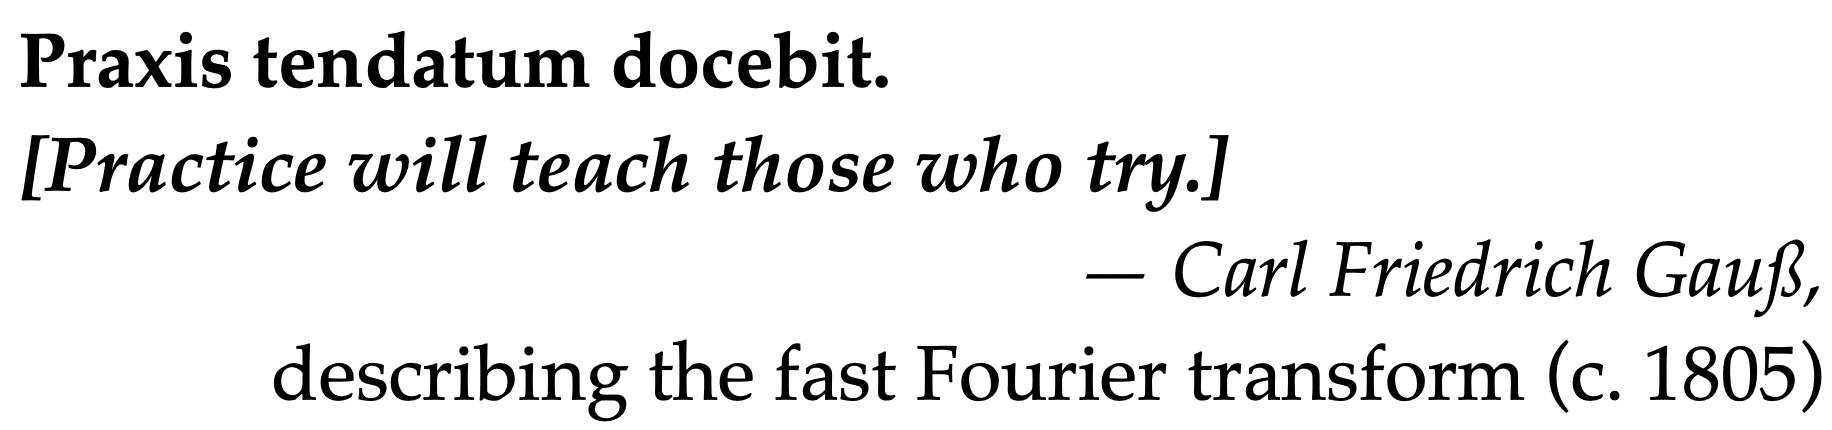
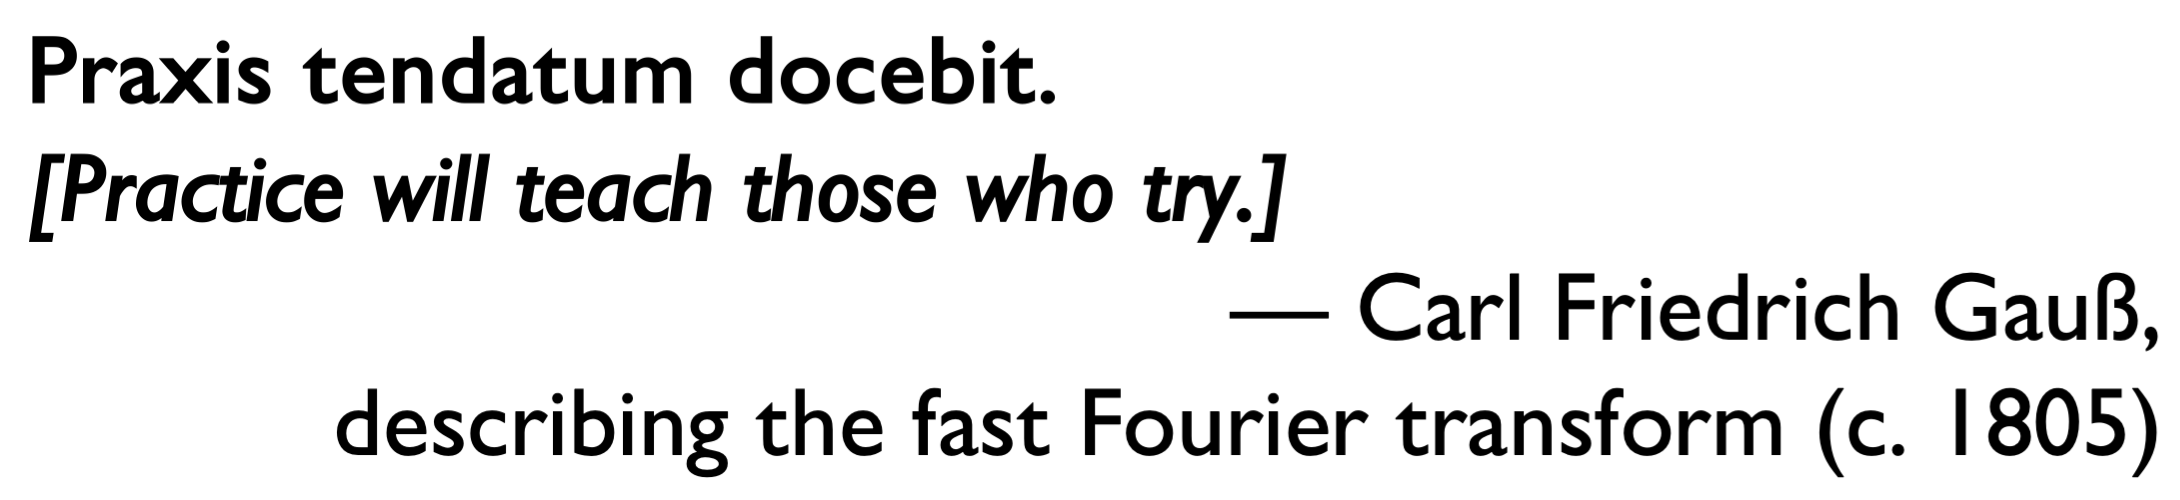
Change page style

diff --git a/index.html b/index.html
@@ -27,34 +27,34 @@
             </td>
             <td align="left"><p><img src="name.png" width="60%"><br />
                 &nbsp <b>Ph.D. Student</b>, CCNT Lab<br />
-                &nbsp <a href="http://ccnt.zju.edu.cn/">AdvanCed Computing aNd SysTem Laboratory</a><br />
-                &nbsp <a href="http://www.cs.zju.edu.cn/english/">College of Computer Science and Technology</a> <br />
-                &nbsp <a href="http://www.zju.edu.cn/english">Zhejiang University</a>, Hangzhou 310027, China<br /><br />
-                &nbsp Supervisor: Prof. <a href="https://person.zju.edu.cn/en/shuiguang">Shuiguang Deng</a> <br />
+                &nbsp <a href="http://ccnt.zju.edu.cn/" target="_blank">AdvanCed Computing aNd SysTem Laboratory</a><br />
+                &nbsp <a href="http://www.cs.zju.edu.cn/" target="_blank">College of Computer Science and Technology</a> <br />
+                &nbsp <a href="http://www.zju.edu.cn/english" target="_blank">Zhejiang University</a>, Hangzhou 310027, China<br /><br />
+                &nbsp Supervisor: Prof. <a href="https://person.zju.edu.cn/en/shuiguang" target="_blank">Shuiguang Deng</a> <br />
                 &nbsp Email: hliangzhao97 {AT} gmail {DOT} com<br />
                 &nbsp Laboratory: Cao Guangbiao Sci-tech Building, Yuquan Campus of Zhejiang University</p>
             </td>
             <td valign="top" width="330">
                 <p align="center"><a href="http://www.zju.edu.cn/english/" target="_blank"><img src="ZJU.png" width="90%" align="top" border="0"></a></p>
-                <p align="center"><a href="http://www.cs.zju.edu.cn/kejizhan/lab/CCNT.html" target="_blank"><img src="lab.jpg" width="95%" height="95%" border="0"></a></p>
-                <p align="center"><img src="quote.png" width="95%" height="95%" border="0"></p>
-                <p align="center"><img src="slogan.png" width="100%" height="100%" border="0"></p>
+                <p align="center"><a href="http://ccnt.zju.edu.cn/" target="_blank"><img src="lab.png" width="95%" height="95%" border="0"></a></p>
+                <p align="center"><img src="quote.png" width="100%" height="100%" border="0"></p>
+                <p align="center"><img src="slogan.png" width="95%" height="95%" border="0"></p>
             </td>
         </tr>
     </table>
     <h2><font color="brown">Biography</font></h2>
     <p align='justify'>Currently I am a second-year Ph.D. student of College of Computer Science and Technology, 
-        <a href="http://www.zju.edu.cn/english">Zhejiang University</a>. Before my Ph.D. career, I 
-        was an undergraduate student from <a href="http://whut.edu.cn/">Wuhan University of Technology</a> and 
+        <a href="http://www.zju.edu.cn/english" target="_blank">Zhejiang University</a>. Before my Ph.D. career, I 
+        was an undergraduate student from <a href="http://whut.edu.cn/" target="_blank">Wuhan University of Technology</a> and 
         received my B.Eng. degree in Computer Science and Technology on June, 2019.
         In September 2019, I was admitted to study for a Ph.D. degree in Zhejiang University under the supervision of Prof. 
-        <a href="https://person.zju.edu.cn/en/shuiguang">Shuiguang Deng</a> without entrance examination.
-        <a href="cv.pdf">[CV]</a> <a href="cv_zh.pdf">[中文简历]</a>
+        <a href="https://person.zju.edu.cn/en/shuiguang" target="_blank">Shuiguang Deng</a> without entrance examination.
+        <a href="cv.pdf" target="_blank">[CV]</a> <a href="cv_zh.pdf" target="_blank">[简历]</a>
     </p>
     <p>
-        <b>Github Profile</b>: <a href="https://github.com/hliangzhao">https://github.com/hliangzhao</a><br />
-        <b>Research Gate</b>: <a href="http://dwz.win/uJY">http://dwz.win/uJY</a><br />
-        <b>Google Scholar</b>: <a href="https://scholar.google.com/citations?hl=en&view_op=list_works&gmla=AJsN-F6zClXnRrhM9NQctwJkoDILtOqGpOb3uh-RPWVfHr5YQnOr-KnE7CAJnJhQ-yI1FqwRu7zk_93TLlgelZT4X2o9rhw-1at_zNkhveG8M8j8rF7G7bg&user=wMj2rFsAAAAJ">http://t.cn/AiWSETna</a><br /><br />
+        <b>Github Profile</b>: <a href="https://github.com/hliangzhao" target="_blank">https://github.com/hliangzhao</a><br />
+        <b>Research Gate</b>: <a href="http://dwz.win/uJY" target="_blank">http://dwz.win/uJY</a><br />
+        <b>Google Scholar</b>: <a href="https://scholar.google.com/citations?hl=en&view_op=list_works&gmla=AJsN-F6zClXnRrhM9NQctwJkoDILtOqGpOb3uh-RPWVfHr5YQnOr-KnE7CAJnJhQ-yI1FqwRu7zk_93TLlgelZT4X2o9rhw-1at_zNkhveG8M8j8rF7G7bg&user=wMj2rFsAAAAJ" target="_blank">http://t.cn/AiWSETna</a><br /><br />
     </p>
 
     <h2><font color="brown">Recent Update</font></h2>
@@ -68,25 +68,24 @@
     </ul>
 
     <h2><font color="brown">Research Interests</font></h2>
-        <p>I am interested in <b>Edge Computing</b>, <b>Service Computing</b> and <b>Mobile Computing</b>.
+        <p>I am interested in <b>Edge & Cloud Computing</b> and <b>Services Computing</b>.
             Currently I am focusing on: <br />
             <ul>
-                <li align='justify'><b>Computation Offloading.</b>
-                    Computation offloading is the transfer of resource-intensive computational tasks to an external platform, such as 
-                    a cluster, grid, or a cloud. Offloading may be necessary due to hardware limitations of a devices, such as limited 
-                    computational power, storage, and energy. The resource intensive tasks may be for searching, virus scanning, image 
-                    processing, artificial intelligence, computational decision making, etc. In the area of mobile and multi-access 
-                    edge computing, it studies the load balancing of various computation and communication resources in the manner of 
-                    edge server selection and frequency spectrum allocation.
+                <li align='justify'><b>Service Scheduling & Online Resource Allocation</b><br />
+                    Cluster schedulers are key to realizing improvements in resource utilization for the cloud-native apps. 
+                    Current cluster schedulers rely on heuristics that prioritize generality, ease of understanding, and 
+                    straightforward implementation over achieving the ideal performance on a specific workload. 
+                    However, they ignore readily available information about job structure (i.e., internal dependencies) 
+                    and efficient parallelism for jobs’ input sizes. How to design a better online resource allocation algorithm (mechanism) 
+                    is of importance. 
                 </li>
-                <li align='justify'><b>Edge Intelligence.</b>
-                    Edge Intelligence is not the simple combination of Edge Computing and Artificial Intelligence. Actually, the 
-                    subject of Edge Intelligence is tremendous and enormously sophisticated, covering many concepts and technologies, 
-                    which are interwoven together in a complicated manner. Currently, the formal and internationally acknowledged 
-                    definition of Edge Intelligence is non-existent. Innovatively, we divide Edge Intelligence into <i>AI for edge</i> 
-                    and <i>AI on edge</i>. The former focuses on providing a more optimal solution to the key concerns in Edge 
-                    Computing with the help of popular and resultful AI technologies while the latter studies how to carry out the 
-                    entire process of AI models, i.e., model training and inference, on edge.
+                <li align='justify'><b>AI-driven Optimization</b><br />
+                    In our <a href="./papers/EI.pdf" target="_blank">Edge Intelligence paper</a>, we divide Edge Intelligence into <i>AI for edge</i>  and <i>AI on edge</i>. 
+                    The former focuses on providing a more optimal solution to the key concerns in Edge Computing with the help of 
+                    popular and resultful AI technologies while the latter studies how to carry out the entire process of AI models, 
+                    i.e., model training and inference, on edge.
+                    What I put emphasis on is that how to apply AI-based models, especially reinforcement learning and graph 
+                    neural networks, to improve the QoE. 
                 </li>
             </ul>
         </p>
@@ -102,74 +101,74 @@
         <li align='justify'>陈昊崴，邓水光，<b>赵海亮</b>，尹建伟，面向移动边缘的组合服务选择及优化。投稿至<b><font face='Raleway'>计算机学报</font></b>。</li>
 
         <li align='justify'><b><u>Hailiang Zhao</u></b>, Shuiguang Deng*, Zijie Liu, Jianwei Yin, and Schahram Dustdar, 
-            <a href="./papers/rs.pdf"><i>Distributed Redundant Placement for Microservice-based Applications at the Edge</i></a>.
+            <a href="./papers/rs.pdf" target="_blank"><i>Distributed Redundant Placement for Microservice-based Applications at the Edge</i></a>.
             In: <b><font face='Raleway'>IEEE Transactions on Services Computing (TSC)</font></b>, doi: 10.1109/TSC.2020.3013600. <font color=#088A85>(Core A*, CCF B)</font></li>
 
         <li align='justify'>Shuiguang Deng, Guanjie Cheng, <b>Hailiang Zhao</b>, Honghao Gao, and Jianwei Yin, 
-            <a href="./papers/blockchain.pdf"><i>Incentive-driven Computation Offloading in Blockchain-enabled E-commerce</i></a>. 
+            <a href="./papers/blockchain.pdf" target="_blank"><i>Incentive-driven Computation Offloading in Blockchain-enabled E-commerce</i></a>. 
             In: <b><font face='Raleway'>ACM Transactions on Internet Technology (TOIT)</font></b>, doi: https://doi.org/10.1145/3397160. <font color=#088A85>(Core B, CCF B)</font></li>
 
         <li align='justify'>Shuiguang Deng, <b><u>Hailiang Zhao</u></b>, Weijia Fang*, Jianwei Yin, Schahram Dustdar, and Albert Y. Zomaya, 
-            <a href="./papers/EI.pdf"><i>Edge Intelligence: The Confluence of Edge Computing and Artificial Intelligence</i></a>.
+            <a href="./papers/EI.pdf" target="_blank"><i>Edge Intelligence: The Confluence of Edge Computing and Artificial Intelligence</i></a>.
             In: <b><font face='Raleway'>IEEE Internet of Things Journal</font></b>, doi: 10.1109/JIOT.2020.2984887. <font color=#088A85>(SCI 1区, JCR Q1)</font></li>
 
         <li align='justify'><b><u>Hailiang Zhao</u></b>, Shuiguang Deng*, Cheng Zhang, Wei Du, Qiang He, and Jianwei Yin,
-            <a href="./papers/cross_edge_offloading.pdf"><i>A Mobility-aware Cross-edge Computation Offloading 
+            <a href="./papers/cross_edge_offloading.pdf" target="_blank"><i>A Mobility-aware Cross-edge Computation Offloading 
                 Framework for Partitionable Applications</i></a>.
             In: <b><font face='Raleway'>Proceedings of the 17th IEEE International Conference on Web Services (ICWS'19)</font></b>, 
-            Milan, Italy, 2019. <a href="./papers/Theoretical_analysis.pdf">[Theoretical Analysis] </a>
-            <a href="./slides/cross_edge.pdf">[Slide]</a> <font color=#B40404>[<b>Best Student Paper</b>]</font> <font color=#088A85>(Core A, CCF B)</font> </li>
+            Milan, Italy, 2019. <a href="./papers/Theoretical_analysis.pdf" target="_blank">[Theoretical Analysis] </a>
+            <a href="./slides/cross_edge.pdf" target="_blank">[Slide]</a> <font color=#B40404>[<b>Best Student Paper</b>]</font> <font color=#088A85>(Core A, CCF B)</font> </li>
 
         <li align='justify'>Yishan Chen, Shuiguang Deng*, <b>Hailiang Zhao</b>, Qiang He, Yin Li, and Honghao Gao,
-            <a href="./papers/deployment_with_DQN.pdf"><i>Data-intensive Application Deployment at Edge: 
+            <a href="./papers/deployment_with_DQN.pdf" target="_blank"><i>Data-intensive Application Deployment at Edge: 
                 A Deep Reinforcement Learning Approach</i></a>.
             In: <b><font face='Raleway'>Proceedings of the 17th IEEE International Conference on Web Services (ICWS'19)</font></b>, 
             Milan, Italy, 2019. <font color=#088A85>(Core A, CCF B, short paper)</font> </li>
 
         <li align='justify'>Wei Du, Tao Lei, Qiang He, Wei Liu, Qiwang Lei, <b>Hailiang Zhao</b>, and Wei Wang, 
-            <a href="./papers/task_offloading.pdf"><i>Service Capacity Enhanced Task Offloading and Resource 
+            <a href="./papers/task_offloading.pdf" target="_blank"><i>Service Capacity Enhanced Task Offloading and Resource 
                 Allocation in Multi-Server Edge Computing Environment</i></a>.
             In: <b><font face='Raleway'>Proceedings of the 17th IEEE International Conference on Web Services (ICWS'19)</font></b>, 
             Milan, Italy, 2019. <font color=#088A85>(Core A, CCF B)</font> </li>
         
         <li align='justify'>Wei Du, Qiwang Lei, Qiang He, Wei Liu, Feifei Chen, Lei Pan, Tao Lei, and <b>Hailiang Zhao</b>, 
-            <a href="./papers/CWS_SHT_33.pdf"><i>Multiple Energy Harvesting Devices Enabled Joint Computation 
+            <a href="./papers/CWS_SHT_33.pdf" target="_blank"><i>Multiple Energy Harvesting Devices Enabled Joint Computation 
                 Offloading and Dynamic Resource Allocation for Mobile-Edge Computing Systems</i></a>.
             In: <b><font face='Raleway'>Proceedings of the 17th IEEE International Conference on Web Services (ICWS'19)</font></b>, 
             Milan, Italy, 2019. <font color=#088A85>(Core A, CCF B, short paper)</font> </li>
         
         <li align='justify'>Cheng Zhang, <b>Hailiang Zhao</b>, and Shuiguang Deng,
-            <a href="./papers/JCORM_under_CN.pdf"><i>A Density-based Offloading Strategy for IoT Devices in Edge Computing Systems.</i></a>
+            <a href="./papers/JCORM_under_CN.pdf" target="_blank"><i>A Density-based Offloading Strategy for IoT Devices in Edge Computing Systems.</i></a>
             In: <b><font face='Raleway'>IEEE Access</font></b>, doi: 10.1109/ACCESS.2018.2882452. </li>
 
         <li align='justify'><b><u>Hailiang Zhao</u></b>, Wei Du, Wei Liu, Tao Lei, and Qiwang Lei,
-            <a href="./papers/UIC_2018_paper_85.pdf"><i>QoE Aware and Cell Capacity Enhanced Computation Offloading for Multi-Server 
+            <a href="./papers/UIC_2018_paper_85.pdf" target="_blank"><i>QoE Aware and Cell Capacity Enhanced Computation Offloading for Multi-Server 
                 Mobile Edge Computing Systems with Energy Harvesting Devices</a></i>.
             In: <b><font face='Raleway'>Proceedings of the 15th IEEE International Conference on Ubiquitous Intelligence and Computing (UIC'18)</font></b>, 
-            Guangzhou, China, 2018. <a href="https://github.com/hliangzhao/Edge-Computing-Codes">[Code] </a> <font color=#088A85>(Core B, CCF C)</font> </li>
+            Guangzhou, China, 2018. <a href="https://github.com/hliangzhao/Edge-Computing-Codes" target="_blank">[Code] </a> <font color=#088A85>(Core B, CCF C)</font> </li>
         </ul>
 
     <h2><font color="brown">Documents & Notes</font></h2>
         <ul>
-        <li align='justify'><a href="./math/cheatsheet.pdf">深度学习理论速查清单</a><font color="brown"></font><br />
+        <li align='justify'><a href="./math/cheatsheet.pdf" target="_blank">深度学习理论速查清单</a><font color="brown"></font><br />
             这篇文档给出了深度学习模型的理论原理，Oct 2020。
         </li>
-        <li align='justify'><a href="./math/CG.pdf">理解共轭梯度法</a><font color="brown"></font><br />
+        <li align='justify'><a href="./math/CG.pdf" target="_blank">理解共轭梯度法</a><font color="brown"></font><br />
             这篇文档给出了共轭梯度法的设计原理、算法实现以及收敛性分析，Jun 2020。
         </li>
-        <li align='justify'><a href="./math/math.pdf">需要熟练掌握的人工智能算法基础</a><font color="brown"></font><br />
+        <li align='justify'><a href="./math/math.pdf" target="_blank">需要熟练掌握的人工智能算法基础</a><font color="brown"></font><br />
             这篇文档总结了这两三个月以来对一些数学观念的深入理解，内容涵盖了概率论、微积分与优化、线性代数等内容，May 2020。
         </li>
-        <li align='justify'><a href="./notes/MEC_archi.pdf">MEC业务系统架构</a><font color="brown"></font><br />
+        <li align='justify'><a href="./notes/MEC_archi.pdf" target="_blank">MEC业务系统架构</a><font color="brown"></font><br />
             这篇笔记总结了多接入边缘计算的业务架构，May 2020。
         </li>
-        <li align='justify'><a href="./notes/blockchain.pdf">比特币与区块链总结</a><font color="brown"></font><br />
+        <li align='justify'><a href="./notes/blockchain.pdf" target="_blank">比特币与区块链总结</a><font color="brown"></font><br />
             这篇笔记总结了我在理解比特币和区块链概念时遇到的一些问题，Nov 2019。
         </li>
-        <li align='justify'><a href="./math/Lyapunov_optimization.pdf">里亚普洛夫优化导论</a><font color="brown"></font><br />
+        <li align='justify'><a href="./math/Lyapunov_optimization.pdf" target="_blank">里亚普洛夫优化导论</a><font color="brown"></font><br />
             这篇文档给出了里亚普洛夫优化技术的使用方法及性能分析，Nov 2018。
         </li>
-        <li align='justify'><a href="./math/linear_algebra.pdf">线性代数中的一些基本观念</a><font color="brown"></font><br />
+        <li align='justify'><a href="./math/linear_algebra.pdf" target="_blank">线性代数中的一些基本观念</a><font color="brown"></font><br />
             这篇文档对线性代数中的一些基本观念给出了有趣的阐释，Oct 2018。
         </li>
         </ul>
@@ -177,83 +176,83 @@
     <h2><font color="brown">Talks & Slides</font></h2>
         <ul>
         <li align='justify'>
-            <a href="./slides/3_trans_layer.pdf"><font face='Raleway'><b>Review the Transport Layer: TCP and UDP</b></font></a>
+            <a href="./slides/3_trans_layer.pdf" target="_blank"><font face='Raleway'><b>Review the Transport Layer: TCP and UDP</b></font></a>
             <br />
             This slide is a reminder for chapter 3 of the book <i>Computer Networking: A Top-Down Approach</i>, Sep 2020.
         </li>
         <li align='justify'>
-            <a href="./slides/2-app-layer.pdf"><font face='Raleway'><b>Review the Application Layer</b></font></a>
+            <a href="./slides/2-app-layer.pdf" target="_blank"><font face='Raleway'><b>Review the Application Layer</b></font></a>
             <br />
             This slide is a reminder for chapter 2 of the book <i>Computer Networking: A Top-Down Approach</i>, Sep 2020.
         </li>
         <li align='justify'>
-            <a href="./slides/1-net-overview.pdf"><font face='Raleway'><b>Computer Networks and the Internet: A Comprehensive View</b></font></a>
+            <a href="./slides/1-net-overview.pdf" target="_blank"><font face='Raleway'><b>Computer Networks and the Internet: A Comprehensive View</b></font></a>
             <br />
             This slide is a reminder for chapter 1 of the book <i>Computer Networking: A Top-Down Approach</i>, Sep 2020.
         </li>
         <li align='justify'>
-            <a href="./slides/Slicing.pdf"><font face='Raleway'><b>How Should I Slice My Network?</b></font></a>
+            <a href="./slides/Slicing.pdf" target="_blank"><font face='Raleway'><b>How Should I Slice My Network?</b></font></a>
             <br />
-            This slide is a report on the paper <i><a href="https://dl.acm.org/citation.cfm?id=3241567">How Should I Slice My Network? 
+            This slide is a report on the paper <i><a href="https://dl.acm.org/citation.cfm?id=3241567" target="_blank">How Should I Slice My Network? 
                 A Multi-Service Empirical Evaluation of Resource Sharing Efficiency</a></i>, published in MobiCom'18. This talk was 
                 held in Dec 2019.
         </li>
         <li align='justify'>
-            <a href="./slides/CrowdBC.pdf"><font face='Raleway'><b>CrowdBC: A Blockchain-Based Decentralized Framework for Crowdsourcing</b></font></a>
+            <a href="./slides/CrowdBC.pdf" target="_blank"><font face='Raleway'><b>CrowdBC: A Blockchain-Based Decentralized Framework for Crowdsourcing</b></font></a>
             <br />
-            This slide is a report on the paper <i><a href="https://ieeexplore.ieee.org/document/8540048">CrowdBC: A Blockchain-Based Decentralized Framework for 
+            This slide is a report on the paper <i><a href="https://ieeexplore.ieee.org/document/8540048" target="_blank">CrowdBC: A Blockchain-Based Decentralized Framework for 
                 Crowdsourcing</a></i>, published in IEEE TPDS, Jun 2019. 
         </li>
         <li align='justify'>
-            <a href="./slides/edgeAI.pdf"><font face='Raleway'><b>Edge Intelligence: the Confluence of Edge Computing and Artificial Intelligence</b></font></a>
+            <a href="./slides/edgeAI.pdf" target="_blank"><font face='Raleway'><b>Edge Intelligence: the Confluence of Edge Computing and Artificial Intelligence</b></font></a>
             <br />
-            This slide is a report on our preprint <i><a href="https://arxiv.org/pdf/1909.00560.pdf">Edge Intelligence: the Confluence of Edge 
+            This slide is a report on our preprint <i><a href="https://arxiv.org/pdf/1909.00560.pdf" target="_blank">Edge Intelligence: the Confluence of Edge 
                 Computing and Artificial Intelligence</a></i>, Sep 2019.
         </li>
         <li align='justify'>
-            <a href="./slides/edge_intelligence.pdf"><font face='Raleway'><b>Edge Intelligence: Paving the Last Mile of Artificial Intelligence with Edge Computing</b></font></a>
+            <a href="./slides/edge_intelligence.pdf" target="_blank"><font face='Raleway'><b>Edge Intelligence: Paving the Last Mile of Artificial Intelligence with Edge Computing</b></font></a>
             <br />
-            This slide is a report on the paper <i><a href="https://arxiv.org/abs/1905.10083">Edge Intelligence: Paving the Last Mile of Artificial 
+            This slide is a report on the paper <i><a href="https://arxiv.org/abs/1905.10083" target="_blank">Edge Intelligence: Paving the Last Mile of Artificial 
             Intelligence with Edge Computing</a></i>, preprinted on arXiv, May 2019.
         </li>
         <li align='justify'>
-            <a href="./slides/Game_theory.pdf"><font face='Raleway'><b>On Mobile Edge Computing: Game Theory, Edge AI and Other New Ideas</b></font></a>
+            <a href="./slides/Game_theory.pdf" target="_blank"><font face='Raleway'><b>On Mobile Edge Computing: Game Theory, Edge AI and Other New Ideas</b></font></a>
             <br />
             The slide reviews some important concepts and methods in Game Theory and Edge Intelligence. Especially their 
             utilization in wireless communication and networks. The talk was held in Jan 2019.
         </li>
         <li align='justify'>
-            <a href="./slides/Lyapunov_optimization.pdf"><font face='Raleway'><b>Lyapunov Optimization: An Introduction</b></font></a>
+            <a href="./slides/Lyapunov_optimization.pdf" target="_blank"><font face='Raleway'><b>Lyapunov Optimization: An Introduction</b></font></a>
             <br />
-            The slide is a simplified version of the monograph <i><a href="./math/Lyapunov_optimization.pdf">Lyapunov Optimization: An Introduction</a></i>.
+            The slide is a simplified version of the monograph <i><a href="./math/Lyapunov_optimization.pdf" target="_blank">Lyapunov Optimization: An Introduction</a></i>.
         </li>
         <li align='justify'>
-            <a href="./slides/Optimization_and_Edge_AI.pdf"><font face='Raleway'><b>Application of Optimization Methods and Edge AI</b></font></a>
+            <a href="./slides/Optimization_and_Edge_AI.pdf" target="_blank"><font face='Raleway'><b>Application of Optimization Methods and Edge AI</b></font></a>
             <br />
             In this slide, we review the methods used in MEC and discuss how to design a better system model with methods embedded naturally, Nov 2018.
         </li>
         <li align='justify'>
-            <a href="./slides/learning_driven_commun.pdf"><font face='Raleway'><b>Towards an Intelligence Edge: Wireless Communication Meets Machine Learning</b></font></a>
+            <a href="./slides/learning_driven_commun.pdf" target="_blank"><font face='Raleway'><b>Towards an Intelligence Edge: Wireless Communication Meets Machine Learning</b></font></a>
             <br />
-            In this slide, we study the learning-driven communication scheme, proposed in <i><a href="https://arxiv.org/abs/1809.00343">Towards an Intelligence 
+            In this slide, we study the learning-driven communication scheme, proposed in <i><a href="https://arxiv.org/abs/1809.00343" target="_blank">Towards an Intelligence 
                 Edge: Wireless Communication Meets Machine Learning</a></i>, Sep 2018.
         </li>
         <li align='justify'>
-            <a href="./slides/synergy.pdf"><font face='Raleway'><b>Edge Intelligence: On-demand Deep Learning Model Co-inference with Device-edge Synergy</b></font></a>
+            <a href="./slides/synergy.pdf" target="_blank"><font face='Raleway'><b>Edge Intelligence: On-demand Deep Learning Model Co-inference with Device-edge Synergy</b></font></a>
             <br />
             In this slide, we study the Edgent framework, published in MECOMM'18.
         </li>
         <li align='justify'>
-            <a href="./slides/Models and Methods in Mobile Edge Computing Systems.pdf"><font face='Raleway'><b>Models and Methods in Mobile Edge Computing Systems</b></font></a>
+            <a href="./slides/Models and Methods in Mobile Edge Computing Systems.pdf" target="_blank"><font face='Raleway'><b>Models and Methods in Mobile Edge Computing Systems</b></font></a>
             <br />
             In this slide, we review the classic models and methods proposed in edge computing systems up to right now, Aug 2018.
         </li>
         </ul>
     
-    <h2><font color="brown">Teaching Assistant</font></h2>
+    <!-- <h2><font color="brown">Teaching Assistant</font></h2>
     <ul>
 
-    </ul>
+    </ul> -->
 
     <h2><font color="brown">Awards & Honors & Contests</font></h2>
     <ul>
@@ -271,10 +270,10 @@
         </li>
     </ul>
 
-    <h2><font color="brown">Professional Services</font></h2>
+    <!-- <h2><font color="brown">Professional Services</font></h2>
     <ul>
 
-    </ul>
+    </ul> -->
 
     <h2><font color="brown">Correspondence</font></h2>
         <p><font>
